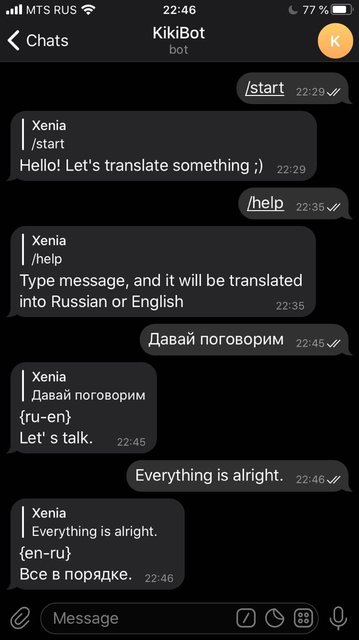
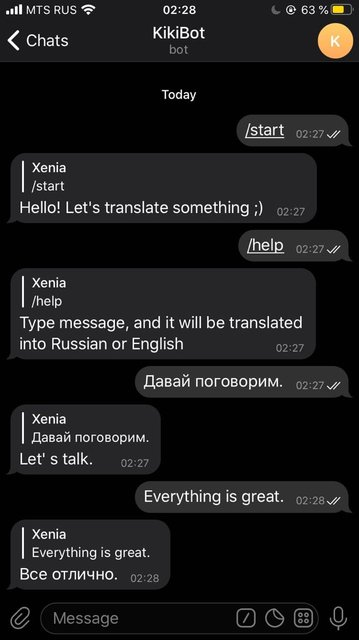
changed bot and translator

diff --git a/src/main/java/com/example/app/bot/Bot.java b/src/main/java/com/example/app/bot/Bot.java
@@ -67,22 +67,30 @@ public class Bot extends TelegramLongPollingBot {
 
             Message message = update.getMessage();
 
-            switch (message.getText()) {
-                case ("/start"):
-                    sendMsg(message, "Hello! Let's translate something ;)");
-                    break;
-                case ("/help"):
-                    sendMsg(message, "Type message, and it will be translated into Russian or English");
-                    break;
-                default:
-                    try {
-                        sendMsg(message,Translator.getTranslation(message.getText()));
-                    } catch (IllegalArgumentException | IOException e) {
-                        e.printStackTrace();
-                    }
-                    break;
-            }
+            sendMsg(message, generateAnswer(message));
         }
+    }
+
+    public String generateAnswer(Message message) {
+
+        String ans = "";
+
+        switch (message.getText()) {
+            case ("/start"):
+                ans = "Hello! Let's translate something ;)";
+                break;
+            case ("/help"):
+                ans = "Type message, and it will be translated into Russian or English";
+                break;
+            default:
+                try {
+                    ans = Translator.getTranslation(message.getText());
+                } catch (IllegalArgumentException | IOException e) {
+                    e.printStackTrace();
+                }
+                break;
+        }
+        return ans;
     }
 
     public void setButtons(SendMessage sendMessage){

diff --git a/src/main/java/com/example/app/bot/Translator.java b/src/main/java/com/example/app/bot/Translator.java
@@ -33,7 +33,19 @@ public class Translator {
 
         JSONArray jsonArray = language.getJSONArray("languages");
 
+        TranslateOptions translateOptions = new TranslateOptions.Builder().addText(message).modelId(identifyLanguage(jsonArray)).build();
+
+        TranslationResult result = languageTranslator.translate(translateOptions).execute().getResult();
+
+        JSONObject translation = new JSONObject(result);
+
+        return translation.getJSONArray("translations").getJSONObject(0).getString("translation");
+    }
+
+    public static String identifyLanguage(JSONArray jsonArray) {
+
         String languageToLanguage = "en-ru";
+
         for (int i = 0; i < jsonArray.length(); i++) {
             String lang = jsonArray.getJSONObject(i).getString("language");
 
@@ -48,18 +60,7 @@ public class Translator {
             }
         }
 
-        TranslateOptions translateOptions = new TranslateOptions.Builder().addText(message).modelId(languageToLanguage).build();
-
-        TranslationResult result = languageTranslator.translate(translateOptions).execute().getResult();
-
-        JSONObject translation = new JSONObject(result);
-
-
-        String ans = "{" + languageToLanguage + "} \n" + translation.getJSONArray("translations").getJSONObject(0).getString("translation");
-        System.out.println(ans);
-        return  ans;
-
-
+        return languageToLanguage;
     }
 
 }
